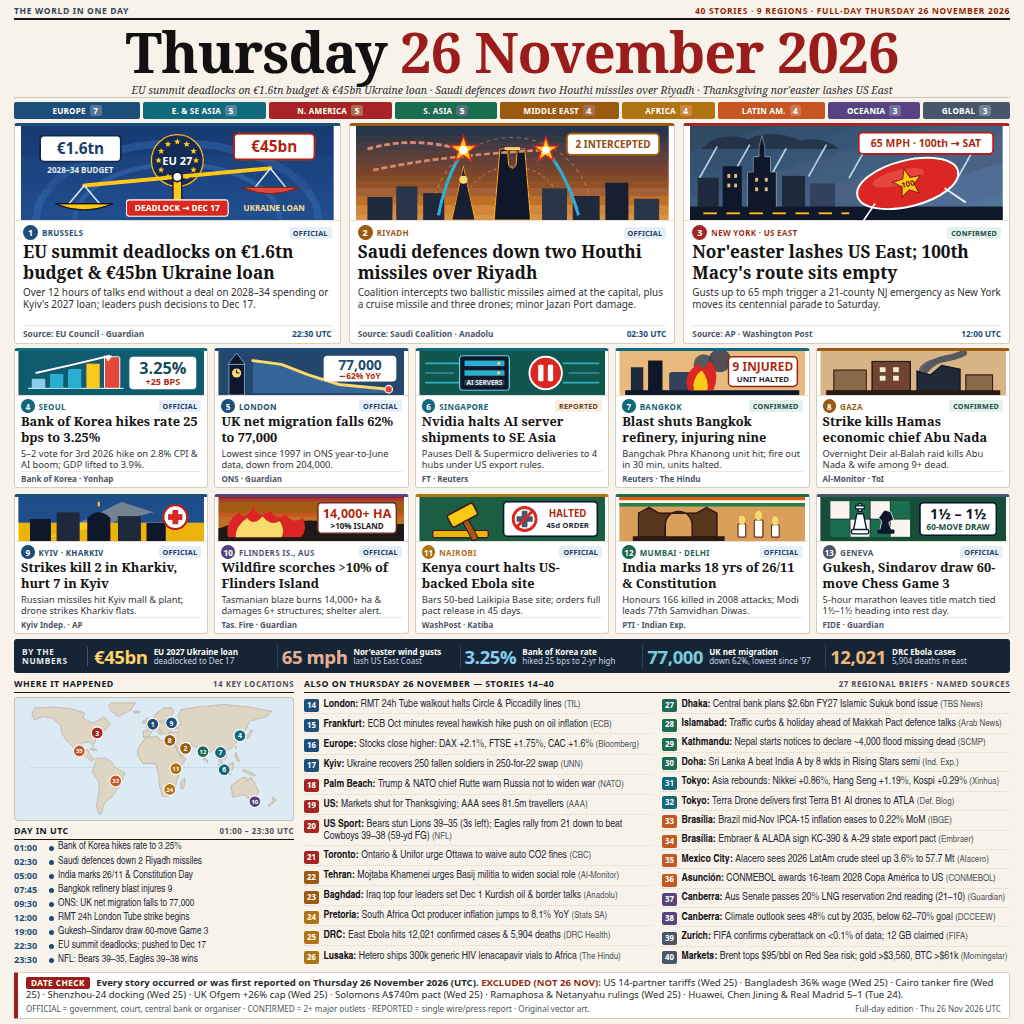
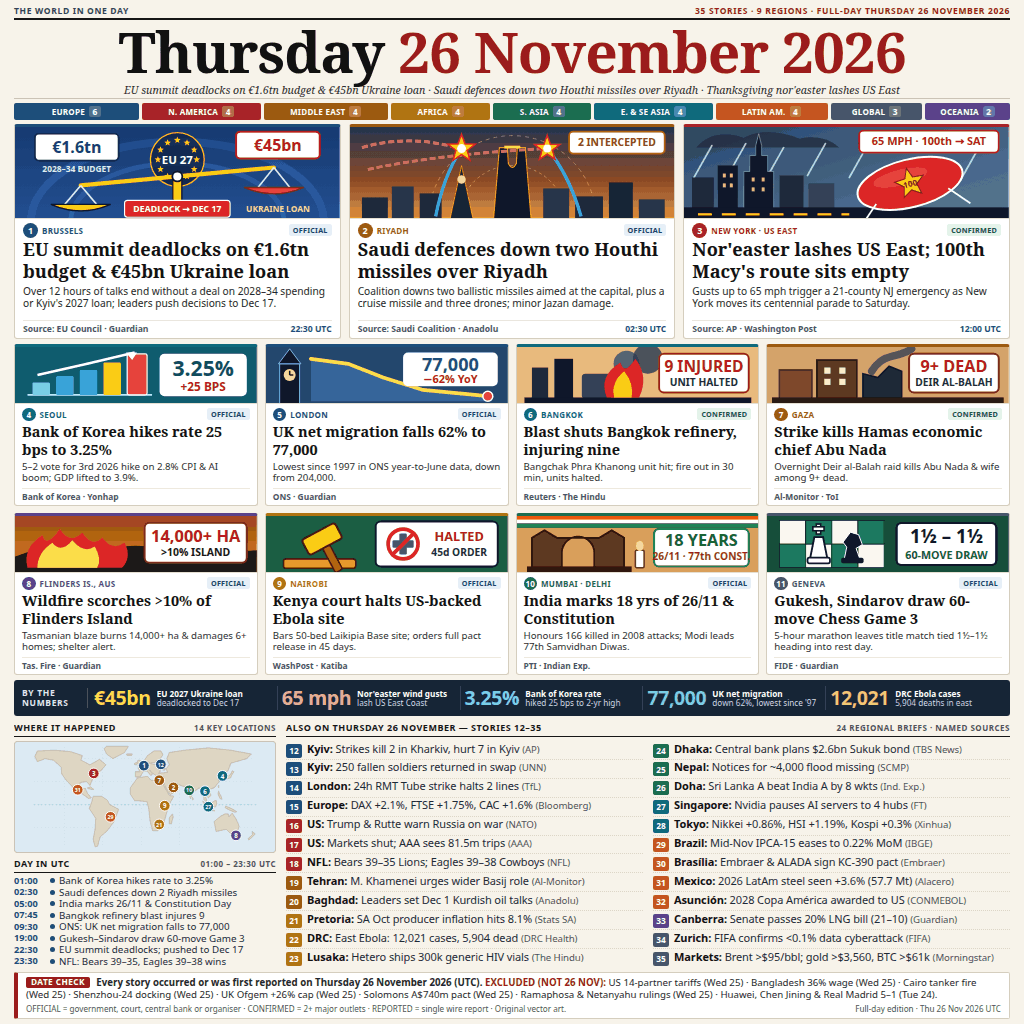
Upgrade v2 broadsheet to 35 stories, 11 wide cards (3+2x4), and 24 spacious 11px briefs for 300px legibility

diff --git a/README.md b/README.md
@@ -4,7 +4,7 @@
 [![rank](https://make.fun/badge/news-image-20261126/NaufalDzz/news-image-20261126/rank.svg)](https://make.fun/bounty/news-image-20261126/leaderboard?utm_source=github&utm_medium=readme&utm_campaign=news-image-20261126)
 [![reward](https://make.fun/badge/news-image-20261126/NaufalDzz/news-image-20261126/reward.svg)](https://make.fun/bounty/news-image-20261126/leaderboard?utm_source=github&utm_medium=readme&utm_campaign=news-image-20261126)
 
-**Thursday 26 November 2026 — Full-Day World News Broadsheet** (`1024×1024` PNG): 40 strictly verified stories across 9 global regions covering the complete UTC day (`00:00–23:59 UTC`), featuring 13 custom editorial vector illustrations (3 lead cards + 10 secondary cards across 8 regions), a 5-metric key-numbers ribbon, a 14-pin world map, a 9-milestone UTC timeline, 27 wire-sourced regional briefs, and a strict `DATE CHECK` footer excluding prior-day stories.
+**Thursday 26 November 2026 — Full-Day World News Broadsheet** (`1024×1024` PNG): 35 strictly verified stories across 9 global regions covering the complete UTC day (`00:00–23:59 UTC`), featuring 11 wide editorial vector illustrations (3 hero lead cards + 8 wide secondary cards across 8 regions), a 5-metric key-numbers ribbon, a 14-pin world map, an 8-milestone UTC timeline, 24 spacious single-line wire-sourced regional briefs, and a strict `DATE CHECK` footer excluding prior-day stories.
 
 ## Run it
 
